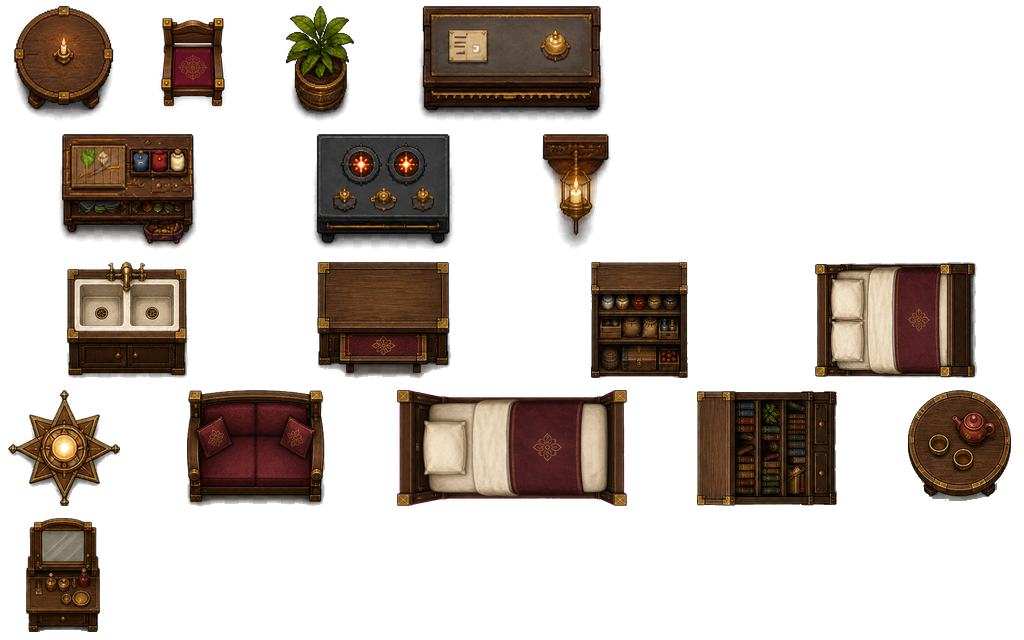
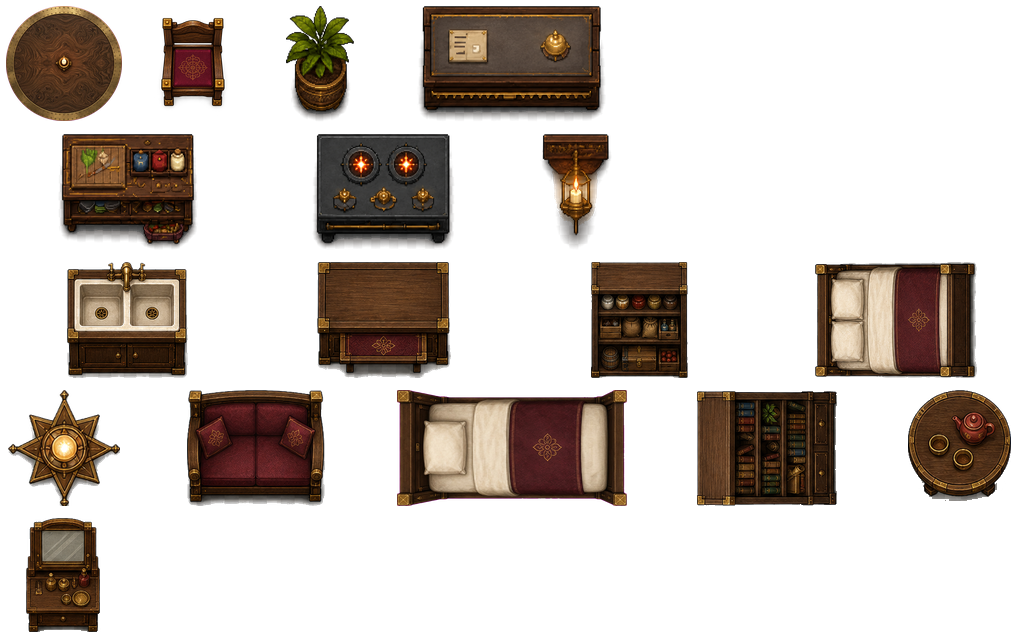
feat: add UI motion and richer HD dining table
Top-bar actions gain icons and 1X speed labels. Buttons, cards and
rails lift on hover; modals and toasts fade in. The HD dining table
now has a brass-riveted rim while staying orthographic.

Changed region(s): [[0.0, 0.0, 0.125, 0.1875]]

diff --git a/src/ui.js b/src/ui.js
@@ -181,7 +181,7 @@ img.portrait.list{width:42px;height:56px;flex:0 0 42px;border-width:1px;border-r
 .pstrip{display:flex;gap:4px;flex-wrap:wrap}
 .pstrip img{width:44px;height:56px;object-fit:cover;object-position:50% 0;border:2px solid #E3C9A4;border-radius:8px;cursor:pointer;image-rendering:auto}
 .pstrip img.on{border-color:#7FB069}
-.modal{position:fixed;inset:0;display:flex;align-items:center;justify-content:center;background:#3A2C20B8;pointer-events:auto;z-index:20}
+.modal{position:fixed;inset:0;display:flex;align-items:center;justify-content:center;background:#3A2C20B8;pointer-events:auto;z-index:20;animation:uiModalIn 180ms ease-out}
 .mbox{background:#F5E6C8 url('assets/ui-paper-target-v2.webp');background-size:420px;border:3px solid #B0895E;border-radius:16px;box-shadow:0 10px 28px rgba(60,40,25,.45), inset 0 0 0 1.5px rgba(255,250,235,.7), inset 0 0 22px rgba(150,110,60,.16);padding:14px;max-width:min(900px,94vw);max-height:92vh;overflow:auto}
 .grid{display:grid;grid-template-columns:repeat(auto-fill,minmax(58px,1fr));gap:3px}
 .grid button{padding:2px;font-size:12px;overflow:hidden;white-space:nowrap}
@@ -200,7 +200,7 @@ h3 .dim{font-weight:normal}
 #left::-webkit-scrollbar-track,#right::-webkit-scrollbar-track,.mbox::-webkit-scrollbar-track{background:rgba(201,161,118,.18);border-radius:4px}
 canvas.prev{image-rendering:pixelated;background:#2A2A44;border:2px solid #C9A176;border-radius:8px}
 .toasts{position:absolute;left:50%;transform:translateX(-50%);top:44px;text-align:center}
-.toast{background:#F7E9CDEE;border:2px solid #B0895E;border-radius:12px;padding:3px 12px;margin-bottom:4px;display:inline-block;color:#6B4429;box-shadow:0 2px 6px rgba(90,64,51,.25), inset 0 1px 0 rgba(255,255,255,.5)}
+.toast{background:#F7E9CDEE;border:2px solid #B0895E;border-radius:12px;padding:3px 12px;margin-bottom:4px;display:inline-block;color:#6B4429;box-shadow:0 2px 6px rgba(90,64,51,.25), inset 0 1px 0 rgba(255,255,255,.5);animation:uiToastIn 200ms ease-out}
 #chatter{position:absolute;left:50%;transform:translateX(-50%);bottom:96px;pointer-events:none;display:flex;flex-direction:column;align-items:center;gap:3px;max-width:72vw}
 #chatter div{background:#F7E9CDD9;border:2px solid #B0895E;border-radius:12px;padding:2px 12px;color:#6B4429;font-size:13px;box-shadow:0 2px 6px rgba(90,64,51,.18)}
 #ui input[type=range]{-webkit-appearance:none;appearance:none;height:26px;background:transparent;cursor:pointer}
@@ -252,15 +252,15 @@ canvas.prev{image-rendering:pixelated;background:#2A2A44;border:2px solid #C9A17
 #ui{--paper:#f2e7d2;--paper-clean:#fbf6eb;--paper-deep:#e4d3b6;--walnut:#24170f;--walnut-2:#3a2518;--ink:#39291f;--ink-muted:#786552;--brass:#9a763f;--brass-soft:#c2a36b;--oxblood:#7c241f;--positive:#5f8f42;--info:#3f8992;--rose:#c25d71;--warning:#c47a2c;--danger:#a64037;--line:#b9a17d;--portrait-face-y:14%;font-family:"Microsoft YaHei UI","PingFang SC","Noto Sans CJK SC",sans-serif;font-size:16px;line-height:1.5;color:var(--ink);font-variant-numeric:tabular-nums;-webkit-font-smoothing:antialiased;text-rendering:optimizeLegibility}
 #ui:after{content:"";position:absolute;inset:0;z-index:19;pointer-events:none;border:12px solid transparent;border-image:url('assets/ui-frame-ornament-v2.webp') 54 / 12px stretch}
 #ui h1,#ui h2,#ui h3,#ui .ui-title{font-family:inherit;line-height:1.3;letter-spacing:.02em}
-#ui button{box-sizing:border-box;font-size:15px;line-height:1.35;border-width:1px;border-color:var(--line);border-radius:4px;background-color:#ead8b9;background-image:linear-gradient(#fff9edc4,#dbc29bc4),url('assets/ui-paper-target-v2.webp');background-size:auto,220px;color:var(--ink);text-shadow:none;box-shadow:inset 0 0 0 1px #fff9df88,inset 0 -2px #8f66302b,0 1px 1px #2d1d1022;transition:background-color 160ms ease-out,border-color 160ms ease-out,transform 160ms ease-out,box-shadow 160ms ease-out}
-#ui button:hover{filter:none;border-color:var(--brass);background-color:#efdfc4}
+#ui button{box-sizing:border-box;font-size:15px;line-height:1.35;border-width:1px;border-color:var(--line);border-radius:4px;background-color:#ead8b9;background-image:linear-gradient(#fff9edc4,#dbc29bc4),url('assets/ui-paper-target-v2.webp');background-size:auto,220px;color:var(--ink);text-shadow:none;box-shadow:inset 0 0 0 1px #fff9df88,inset 0 -2px #8f66302b,0 1px 1px #2d1d1022;transition:background-color 160ms ease-out,border-color 160ms ease-out,transform 160ms ease-out,box-shadow 160ms ease-out,filter 160ms ease-out}
+#ui button:hover{filter:none;border-color:var(--brass);background-color:#efdfc4;transform:translateY(-1px);box-shadow:inset 0 0 0 1px #fff9dfaa,inset 0 -2px #8f66303a,0 4px 8px #2d1d1033}
 #ui button:focus-visible,#ui input:focus-visible,#ui select:focus-visible,#ui textarea:focus-visible,#ui summary:focus-visible{outline:2px solid var(--info);outline-offset:2px}
-#ui button:active{transform:translateY(1px);box-shadow:inset 0 1px 2px #3c281c33}
+#ui button:active{transform:translateY(1px) scale(.98);box-shadow:inset 0 1px 2px #3c281c33}
 #ui button.on{background:var(--oxblood);border-color:#571713;color:#fff9ec;text-shadow:none;box-shadow:inset 0 1px #ffffff22}
 #ui button.warn{border-color:var(--danger);color:var(--danger);background:#fff5ec}
 #ui button:disabled{opacity:.46;filter:grayscale(.35);cursor:not-allowed;transform:none}
-#ui .card{border:1px solid var(--line);border-left-width:1px;border-radius:5px;padding:8px;margin-bottom:8px;background-color:var(--paper-clean);background-image:linear-gradient(#ffffff5c,#8f6d3320),url('assets/ui-paper-target-v2.webp');background-size:auto,280px;box-shadow:0 1px 0 #fff inset,0 0 0 1px #9a763f18;cursor:default}
-#ui .card:hover{border-color:var(--brass-soft)}
+#ui .card{border:1px solid var(--line);border-left-width:1px;border-radius:5px;padding:8px;margin-bottom:8px;background-color:var(--paper-clean);background-image:linear-gradient(#ffffff5c,#8f6d3320),url('assets/ui-paper-target-v2.webp');background-size:auto,280px;box-shadow:0 1px 0 #fff inset,0 0 0 1px #9a763f18;cursor:default;transition:border-color 160ms ease-out,box-shadow 160ms ease-out,transform 160ms ease-out}
+#ui .card:hover{border-color:var(--brass);box-shadow:0 1px 0 #fff inset,0 4px 10px #3a210f2a,0 0 0 1px #9a763f33;transform:translateY(-1px)}
 #ui .good{color:var(--positive)}#ui .bad{color:var(--danger)}#ui .hi{color:#865c23}#ui .dim{color:var(--ink-muted)}
 .ui-icon{display:inline-block;width:1em;height:1em;vertical-align:-.12em;fill:none;stroke:currentColor;stroke-width:1.75;stroke-linecap:round;stroke-linejoin:round;pointer-events:none}
 .metric-row{display:grid;grid-template-columns:20px 76px minmax(60px,1fr) 24px;align-items:center;gap:10px;min-height:28px;color:var(--ink);font-variant-numeric:tabular-nums}
@@ -273,12 +273,12 @@ canvas.prev{image-rendering:pixelated;background:#2A2A44;border:2px solid #C9A17
 #ui .pane{border:7px solid transparent;border-image:url('assets/ui-frame-ornament-v2.webp') 54 / 7px stretch;border-radius:3px;background-color:var(--paper);background-image:linear-gradient(#ffffff28,#79572812),url('assets/ui-paper-target-v2.webp');background-size:auto,360px;box-shadow:0 3px 12px #170d0840,inset 0 0 0 1px #fff8df99,inset 0 0 18px #8f62221a}
 #top{left:8px;right:8px;top:8px;height:72px;min-height:72px;box-sizing:border-box;padding:0 8px;gap:0;border-radius:0;background-color:var(--paper);background-image:linear-gradient(#ffffff26,#74522615),url('assets/ui-paper-target-v2.webp');background-size:auto,360px;border-color:var(--brass);box-shadow:0 2px 8px #160d0744,inset 0 -2px #a27b3e33;overflow-x:auto;font-size:17px;scrollbar-width:none}#top::-webkit-scrollbar{display:none}
 #top .top-group{display:flex;align-items:center;align-self:stretch;gap:8px;padding:0 12px;border-right:1px solid #9a763f;box-shadow:inset -1px 0 #fff9e788;flex:0 0 auto}
-#top .top-identity{min-width:205px;box-sizing:border-box;justify-content:center;padding-left:12px}.top-identity .brand-title{border:0;background:transparent;box-shadow:none;padding:0 10px;font-family:"SimSun","Songti SC",serif;font-size:22px;font-weight:700;color:var(--oxblood);letter-spacing:.08em}.top-identity .brand-title:hover{background:#7c241f0b;border-color:transparent}.top-date{font-weight:600}.top-day-state{display:flex;align-items:center;gap:6px}.top-speed button{min-width:48px;height:48px;padding:4px 10px}.top-economy{min-width:405px;box-sizing:border-box;justify-content:center;font-variant-numeric:tabular-nums}.top-economy .ui-icon{width:18px;height:18px;color:#a97820}.top-status{display:flex;gap:8px;align-items:center}.top-status:empty{display:none}.top-actions{margin-left:auto;border-right:0!important}.top-actions>button{min-height:44px;padding:6px 14px}.top-actions>button[data-act="readiness"]{min-width:124px}.top-actions>button[data-act="savemenu"]{min-width:100px}.top-actions-secondary{display:inline-flex;gap:5px;align-items:center}.top-actions-secondary button{min-height:44px;padding:6px 14px}.top-overflow{display:none;position:relative}.top-overflow>button{min-width:36px;min-height:44px;padding:6px 10px}.top-overflow-menu{display:none;position:fixed;top:78px;right:12px;min-width:150px;max-width:90vw;padding:8px;border:2px solid #B0895E;border-radius:10px;background:#F5E6C8 url('assets/ui-paper-target-v2.webp');background-size:420px;box-shadow:0 6px 18px rgba(0,0,0,.25);z-index:100;flex-direction:column;gap:5px}.top-overflow.open .top-overflow-menu{display:flex}.top-overflow-menu button{width:100%;text-align:left;justify-content:flex-start}.primary-action{background:var(--oxblood)!important;border-color:#571713!important;color:#fff9ec!important;font-weight:700;min-width:112px;box-shadow:inset 0 1px #ffffff2b,0 1px 2px #2b100d44!important}.primary-action:hover{background:#912f28!important}
+#top .top-identity{min-width:205px;box-sizing:border-box;justify-content:center;padding-left:12px}.top-identity .brand-title{border:0;background:transparent;box-shadow:none;padding:0 10px;font-family:"SimSun","Songti SC",serif;font-size:22px;font-weight:700;color:var(--oxblood);letter-spacing:.08em}.top-identity .brand-title:hover,.top-identity .brand-title:active{background:#7c241f0b;border-color:transparent;transform:none;box-shadow:none}.top-date{font-weight:600}.top-day-state{display:flex;align-items:center;gap:6px}.top-speed button{min-width:48px;height:48px;padding:4px 10px}.top-economy{min-width:405px;box-sizing:border-box;justify-content:center;font-variant-numeric:tabular-nums}.top-economy .ui-icon{width:18px;height:18px;color:#a97820}.top-status{display:flex;gap:8px;align-items:center}.top-status:empty{display:none}.top-actions{margin-left:auto;border-right:0!important}.top-actions>button,.top-actions-secondary button,.top-overflow-menu button{min-height:44px;padding:6px 14px;display:inline-flex;align-items:center;justify-content:center;gap:6px}.top-actions>button .ui-icon,.top-actions-secondary button .ui-icon,.top-overflow-menu button .ui-icon{width:16px;height:16px;flex:0 0 auto}.top-actions>button[data-act="readiness"]{min-width:124px}.top-actions>button[data-act="savemenu"]{min-width:100px}.top-actions-secondary{display:inline-flex;gap:5px;align-items:center}.top-actions-secondary button{min-height:44px;padding:6px 14px}.top-overflow{display:none;position:relative}.top-overflow>button{min-width:36px;min-height:44px;padding:6px 10px}.top-overflow-menu{display:none;position:fixed;top:78px;right:12px;min-width:150px;max-width:90vw;padding:8px;border:2px solid #B0895E;border-radius:10px;background:#F5E6C8 url('assets/ui-paper-target-v2.webp');background-size:420px;box-shadow:0 6px 18px rgba(0,0,0,.25);z-index:100;flex-direction:column;gap:5px}.top-overflow.open .top-overflow-menu{display:flex;animation:uiMenuIn 160ms ease-out}.top-overflow-menu button{width:100%;text-align:left;justify-content:flex-start}.primary-action{background:var(--oxblood)!important;border-color:#571713!important;color:#fff9ec!important;font-weight:700;min-width:112px;box-shadow:inset 0 1px #ffffff2b,0 1px 2px #2b100d44!important}.primary-action:hover{background:#912f28!important}
 #left,#right{top:88px;bottom:92px;max-height:none;box-sizing:border-box;padding:22px;overflow:auto}#left{width:300px}#right{width:clamp(400px,28vw,460px)}
 #bottom{height:76px;min-height:76px;left:8px;right:8px;bottom:8px;box-sizing:border-box;padding:0 16px;display:flex;align-items:center;overflow:hidden;transition:height .14s,max-height .14s}#bottom.bottom-expanded{height:auto;min-height:76px;max-height:32vh;align-items:flex-start;padding:12px 16px;overflow:auto}#bottom>*{width:100%}.bottom-shell{display:grid;grid-template-columns:32px minmax(0,1fr) 48px;align-items:center;gap:12px;min-height:74px}.bottom-info{display:grid;place-items:center;width:28px;height:28px;border-radius:50%;background:#6a4a2e;color:#fff8e7;font-family:serif;font-weight:700}.bottom-content{min-width:0}.bottom-toggle{width:48px;height:42px;padding:0!important}.bottom-panel-mark{display:inline-block;width:20px;height:15px;border:1.5px solid currentColor;border-radius:2px;box-shadow:inset 0 4px currentColor;opacity:.8}#bottom.bottom-collapsed .bottom-content{display:none}#bottom.bottom-collapsed .bottom-shell{grid-template-columns:32px 1fr 48px}
 #left>.tabs,#right>.tabs{position:sticky;top:-22px;z-index:4;margin:-22px -22px 14px;padding:12px 10px 10px;background:color-mix(in srgb,var(--paper) 96%,transparent);border-bottom:1px solid var(--line)}
-.tabs button{min-height:58px;display:flex;align-items:center;justify-content:center;gap:5px;border:3px solid transparent;border-image:url('assets/ui-frame-ornament-v2.webp') 72 / 3px stretch;box-shadow:inset 0 0 0 1px #fff7df99,inset 0 -2px #6f481f25}.tabs button.on{box-shadow:inset 0 0 0 1px #d8ad6466,inset 0 -3px #35100e55}.tabs .ui-icon{width:18px;height:18px}.tabs button.fold{flex:0 0 42px;width:42px;height:42px;padding:0}.panel-collapse-mark{display:inline-block;position:relative;width:19px;height:16px;border:1.5px solid currentColor;border-radius:2px}.panel-collapse-mark:before{content:"";position:absolute;top:1px;bottom:1px;width:4px;background:currentColor;opacity:.55}.panel-collapse-mark.left:before{left:1px}.panel-collapse-mark.right:before{right:1px}
-.rail{top:88px;bottom:92px;gap:12px;padding:9px 10px;border:1px solid #765735;background-color:var(--walnut);background-image:linear-gradient(90deg,#00000038,#ffffff0b 45%,#0000003b),url('assets/ui-walnut-target-v2.webp');background-size:auto,260px;box-shadow:0 2px 8px #0c070577,inset 0 0 0 1px #c49a5526}#ui .rail button{width:72px;height:72px;padding:18px;border:1px solid #a27c43;border-radius:3px;background-color:var(--walnut-2);background-image:linear-gradient(#ffffff12,#00000025),url('assets/ui-walnut-target-v2.webp');background-size:auto,220px;color:var(--brass-soft);box-shadow:0 2px 6px #0c070555,inset 0 0 0 1px #e0b96a20}#ui .rail button:hover{border-color:#d0aa65;background-color:#49301f;background-image:linear-gradient(#ffffff1d,#00000015),url('assets/ui-walnut-target-v2.webp')}#ui .rail button .ui-icon{width:30px;height:30px}.rail .notice-dot{position:absolute;right:-4px;top:-4px}
+.tabs button{min-height:58px;display:flex;align-items:center;justify-content:center;gap:5px;border:3px solid transparent;border-image:url('assets/ui-frame-ornament-v2.webp') 72 / 3px stretch;box-shadow:inset 0 0 0 1px #fff7df99,inset 0 -2px #6f481f25;transition:transform 160ms ease-out,box-shadow 160ms ease-out,background-color 160ms ease-out}.tabs button:hover{transform:translateY(-1px);box-shadow:inset 0 0 0 1px #d8ad6466,inset 0 -2px #6f481f35,0 3px 8px #24160d22}.tabs button.on{box-shadow:inset 0 0 0 1px #d8ad6466,inset 0 -3px #35100e55}.tabs .ui-icon{width:18px;height:18px}.tabs button.fold{flex:0 0 42px;width:42px;height:42px;padding:0}.panel-collapse-mark{display:inline-block;position:relative;width:19px;height:16px;border:1.5px solid currentColor;border-radius:2px}.panel-collapse-mark:before{content:"";position:absolute;top:1px;bottom:1px;width:4px;background:currentColor;opacity:.55}.panel-collapse-mark.left:before{left:1px}.panel-collapse-mark.right:before{right:1px}
+.rail{top:88px;bottom:92px;gap:12px;padding:9px 10px;border:1px solid #765735;background-color:var(--walnut);background-image:linear-gradient(90deg,#00000038,#ffffff0b 45%,#0000003b),url('assets/ui-walnut-target-v2.webp');background-size:auto,260px;box-shadow:0 2px 8px #0c070577,inset 0 0 0 1px #c49a5526}#ui .rail button{width:72px;height:72px;padding:18px;border:1px solid #a27c43;border-radius:3px;background-color:var(--walnut-2);background-image:linear-gradient(#ffffff12,#00000025),url('assets/ui-walnut-target-v2.webp');background-size:auto,220px;color:var(--brass-soft);box-shadow:0 2px 6px #0c070555,inset 0 0 0 1px #e0b96a20}#ui .rail button:hover{border-color:#d0aa65;background-color:#49301f;background-image:linear-gradient(#ffffff1d,#00000015),url('assets/ui-walnut-target-v2.webp');transform:translateY(-2px) scale(1.04);box-shadow:0 8px 14px #0c070566,inset 0 0 0 1px #e0b96a55,0 0 12px #d0aa6540}#ui .rail button:active{transform:translateY(1px) scale(.98)}#ui .rail button .ui-icon{width:30px;height:30px}.rail .notice-dot{position:absolute;right:-4px;top:-4px}
 .staff-summary{margin-bottom:20px!important;padding:3px 0;font-size:17px}.staff-recruit-entry{width:100%;min-height:48px;font-family:inherit;font-size:18px}.recruitment-head{position:sticky;top:67px;z-index:3;display:flex;align-items:center;gap:8px;margin:0 -2px 10px;padding:8px 2px;background:color-mix(in srgb,var(--paper) 96%,transparent);border-bottom:1px solid var(--line)}.recruitment-head h3{flex:1;margin:0;text-align:center}
 .staff-card{box-sizing:border-box;min-width:0;overflow:hidden;min-height:260px;padding:10px!important;margin-bottom:10px!important}.staff-card-grid{display:grid;grid-template-columns:108px minmax(0,1fr);gap:16px;align-items:start;min-width:0}.staff-card-main{min-width:0;overflow:hidden}.staff-card-head{display:flex;align-items:flex-start;gap:8px;min-height:42px}.staff-identity{min-width:0}.staff-identity b{font-family:inherit;font-size:20px}.staff-role-tag{display:inline-block;margin-left:7px;padding:2px 7px;border-radius:3px;background:var(--paper-deep);color:var(--ink-muted);font-size:13px;font-weight:400;white-space:nowrap}.staff-metrics{margin:28px 0 8px;padding:9px 0 0;border-top:1px solid #ded1ba;min-width:0;overflow:hidden}.staff-metrics .metric-row{grid-template-columns:18px 64px minmax(32px,1fr) 22px;gap:6px}.staff-current{display:block;min-width:0;overflow:hidden;text-overflow:ellipsis;white-space:nowrap}.staff-detail-action{position:relative;flex:0 0 36px;width:36px;height:36px;padding:0!important}.staff-detail-mark{position:absolute;left:12px;top:10px;width:9px;height:9px;border-right:2px solid currentColor;border-bottom:2px solid currentColor;transform:rotate(-45deg)}
 .sr-only{position:absolute!important;width:1px!important;height:1px!important;padding:0!important;margin:-1px!important;overflow:hidden!important;clip:rect(0,0,0,0)!important;white-space:nowrap!important;border:0!important}.notice-dot{display:inline-block;position:relative;flex:0 0 auto;width:12px;height:12px;margin-left:4px;border:1px solid #7c1e19;border-radius:50%;background:radial-gradient(circle at 35% 30%,#e65442 0 18%,#b72c25 22% 64%,#7d1c18 68%);box-shadow:0 1px 1px #2c0d0a66,inset 0 0 0 1px #f28a7355;vertical-align:middle}.tabs button>.notice-dot{position:absolute;right:2px;top:2px;margin:0}.rail button>.notice-dot{position:absolute;right:-4px;top:-4px;margin:0}.modal-notice{position:absolute;z-index:3;right:46px;top:12px}
@@ -291,11 +291,16 @@ canvas.prev{image-rendering:pixelated;background:#2A2A44;border:2px solid #C9A17
 #ui.material-hd:after{border-image-source:url('assets/ui-frame-ornament-v3.webp');filter:drop-shadow(0 2px 2px #120904aa)}
 #ui.material-hd .pane{border-width:9px;border-image:url('assets/ui-frame-ornament-v3.webp') 54 / 9px stretch;background-image:linear-gradient(135deg,#fffdf877 0%,#ead5ae44 48%,#aa794a1f 100%),url('assets/ui-paper-target-v2.webp');box-shadow:0 5px 18px #10090566,inset 0 1px #fffdf5cc,inset 0 -3px 12px #72451622}
 #ui.material-hd :is(.top-actions>button,.top-actions-secondary button,.top-overflow>button,.top-overflow-menu button,.primary-action,.staff-recruit-entry,.compare-hire,.compare-tray button){border:6px solid transparent;border-image:url('assets/ui-control-ornament-v3.webp') 40 72 fill / 6px 12px stretch;background-color:#ead1a8;color:#52331e;box-shadow:0 3px 5px #2b160b40,inset 0 2px #fffbe7cc,inset 0 -3px #6a3b162f}
-#ui.material-hd :is(.top-actions>button,.top-actions-secondary button,.top-overflow>button,.top-overflow-menu button,.primary-action,.staff-recruit-entry,.compare-hire,.compare-tray button):hover{border-color:transparent;background-color:#f0dfc0;box-shadow:0 4px 7px #2b160b4d,inset 0 2px #fffef0e8,inset 0 -3px #75421838}
+#ui.material-hd :is(.top-actions>button,.top-actions-secondary button,.top-overflow>button,.top-overflow-menu button,.primary-action,.staff-recruit-entry,.compare-hire,.compare-tray button):hover{border-color:transparent;background-color:#f0dfc0;transform:translateY(-1px);box-shadow:0 6px 12px #2b160b55,inset 0 2px #fffef0e8,inset 0 -3px #75421838}
 #ui.material-hd button.on,#ui.material-hd .primary-action{background-image:linear-gradient(180deg,#a54339 0%,#7f2823 48%,#531612 100%)!important;border-color:#d2a85f!important;color:#fff5dc!important;text-shadow:0 1px #2a0908!important;box-shadow:0 3px 7px #2d090955,inset 0 2px #f6b8a044,inset 0 -3px #2e080966,inset 0 0 0 1px #e4bd7644!important}
 #ui.material-hd .card{border-color:#aa8350;background-image:linear-gradient(145deg,#fffdf4a6,#efd9b466 52%,#b8844921),url('assets/ui-paper-target-v2.webp');box-shadow:0 3px 8px #3a210f24,inset 0 1px #fffdf1e8,inset 0 0 0 1px #d5aa6a4d}
 #ui.material-hd #top .top-group{border-right-color:#9b6c30;box-shadow:inset -1px 0 #fff9e7c9,inset -3px 0 #6a421522}
 #ui.material-hd #left>.tabs,#ui.material-hd #right>.tabs{border-bottom:2px solid #b08143;box-shadow:0 3px 7px #2b170b22,inset 0 -1px #fff7da}
+@keyframes uiModalIn{from{opacity:0}to{opacity:1}}
+@keyframes uiMboxIn{from{opacity:0;transform:translateY(8px) scale(.98)}to{opacity:1;transform:none}}
+@keyframes uiToastIn{from{opacity:0;transform:translateY(-6px)}to{opacity:1;transform:none}}
+@keyframes uiMenuIn{from{opacity:0;transform:translateY(-4px)}to{opacity:1;transform:none}}
+.mbox{animation:uiMboxIn 200ms cubic-bezier(.2,.7,.2,1)}
 @media(prefers-reduced-motion:reduce){#ui *,#ui *:before,#ui *:after{transition-duration:0.01ms!important;animation-duration:0.01ms!important;animation-iteration-count:1!important}}
 .creator-footer{position:sticky;bottom:0;z-index:6;margin:10px -14px -14px;padding:10px 14px;background:linear-gradient(#fff8eae8,#f5e6c8);border-top:1px solid var(--line)}
 .creator-footer .creator-done{width:100%;margin-top:0}
@@ -1149,10 +1154,10 @@ export class UI {
     this.setPanelHTML(this.top, `
       <div class="top-group top-identity"><button data-act="worldcard" data-v="${htmlText(world.id)}" class="brand-title" title="万界旅店账簿 · 当前驻留：${htmlText(world.name)}，点击查看世界卡">万界旅店账簿</button></div>
       <div class="top-group top-date"><span>第 ${e.day} 天</span><span class="dim">${SEASON_NAMES[s.seasonIndex()]}</span><span class="top-day-state">${s.dayActive ? `<span class="hi">营业中·${this.phase()}</span><span class="bar" style="display:inline-block;width:72px"><i style="width:${timePct}%;background:var(--warning)"></i></span>` : '<span class="dim">收盘规划</span>'}</span></div>
-      <div class="top-group top-speed"><button data-act="pause" class="${g.paused ? 'on' : ''}" aria-label="${g.paused ? '继续' : '暂停'}">${g.paused ? '▶' : 'Ⅱ'}</button>${[1, 2, 4].map((n) => `<button data-act="speed" data-v="${n}" class="${g.speed === n && !g.paused ? 'on' : ''}">${n}×</button>`).join('')}</div>
+      <div class="top-group top-speed"><button data-act="pause" class="${g.paused ? 'on' : ''}" aria-label="${g.paused ? '继续' : '暂停'}">${g.paused ? '▶' : 'Ⅱ'}</button>${[1, 2, 4].map((n) => `<button data-act="speed" data-v="${n}" class="${g.speed === n && !g.paused ? 'on' : ''}">${n}X</button>`).join('')}</div>
       <div class="top-group top-economy"><span class="hi">${uiIcon('econ', '界币')} ${Math.round(e.coins)}</span><span>声望 <span class="star">${'★'.repeat(stars)}</span><span class="dim">${'☆'.repeat(5 - stars)}</span> ${Math.round(e.rep)}/${nextTh}</span></div>
       <div class="top-group top-status">${stars < 5 && e.rep >= nextTh ? `<span class="hi">待完成 ★${stars + 1} 经营认证</span>` : ''}${s.endingSeen ? '<span class="good">五星认证</span>' : ''}${e.strikes ? `<span class="bad">封印警告 ${e.strikes}/3</span>` : ''}${lowStock.length ? `<span class="bad">缺料：${lowStock.map((k) => ING_LABEL[k]).join('/')}</span>` : ''}${this.dynamicAIStatus?.state === 'loading' ? `<span class="hi">✦ ${htmlText(this.dynamicAIStatus.text)}</span><button data-act="aicanceldynamic">取消</button>` : this.dynamicAIStatus?.state === 'error' ? `<span class="bad">${htmlText(this.dynamicAIStatus.text)}</span><button data-act="airetrydynamic">重试</button>` : ''}</div>
-      <div class="top-group top-actions">${s.dayActive ? '' : '<button data-act="readiness">营业准备</button><button data-act="open" class="primary-action">开门营业</button>'}${tutorial.started && !tutorial.completed && !tutorial.skipped && !this.tutorialActive ? `<button data-act="tutorialresume">继续引导 ${tutorial.index + 1}/${TUTORIAL_STEPS.length}</button>` : ''}<button data-act="mobilemanual" class="mobile-manual ${s.manualOwner ? 'on' : ''}">${s.manualOwner ? '自动' : '直控'}</button><button data-act="savemenu">档位 ${this.g.currentSlot}</button><span class="top-actions-secondary"><button data-act="help">帮助</button><button data-act="prompts">提示词</button><button data-act="home">回店</button><button data-act="fullview" title="容纳全部房间">全店视图</button><button data-act="settings">设置</button></span><div class="top-overflow ${this.topOverflowOpen ? 'open' : ''}"><button data-act="overflow-toggle" aria-label="更多工具" aria-haspopup="true" aria-expanded="${this.topOverflowOpen}">⋮</button><div class="top-overflow-menu" role="menu"><button data-act="help" role="menuitem">帮助</button><button data-act="prompts" role="menuitem">提示词</button><button data-act="home" role="menuitem">回店</button><button data-act="fullview" role="menuitem" title="容纳全部房间">全店视图</button><button data-act="settings" role="menuitem">设置</button></div></div></div>`);
+      <div class="top-group top-actions">${s.dayActive ? '' : `<button data-act="readiness">${uiIcon('ready', '营业准备')} 营业准备</button><button data-act="open" class="primary-action">开门营业</button>`}${tutorial.started && !tutorial.completed && !tutorial.skipped && !this.tutorialActive ? `<button data-act="tutorialresume">继续引导 ${tutorial.index + 1}/${TUTORIAL_STEPS.length}</button>` : ''}<button data-act="mobilemanual" class="mobile-manual ${s.manualOwner ? 'on' : ''}">${s.manualOwner ? '自动' : '直控'}</button><button data-act="savemenu">${uiIcon('save', '档位')} 档位 ${this.g.currentSlot}</button><span class="top-actions-secondary"><button data-act="help">${uiIcon('help', '帮助')} 帮助</button><button data-act="prompts">${uiIcon('prompt', '提示词')} 提示词</button><button data-act="home">回店</button><button data-act="fullview" title="容纳全部房间">全店视图</button><button data-act="settings">设置</button></span><div class="top-overflow ${this.topOverflowOpen ? 'open' : ''}"><button data-act="overflow-toggle" aria-label="更多工具" aria-haspopup="true" aria-expanded="${this.topOverflowOpen}">⋮</button><div class="top-overflow-menu" role="menu"><button data-act="help" role="menuitem">${uiIcon('help', '帮助')} 帮助</button><button data-act="prompts" role="menuitem">${uiIcon('prompt', '提示词')} 提示词</button><button data-act="home" role="menuitem">回店</button><button data-act="fullview" role="menuitem" title="容纳全部房间">全店视图</button><button data-act="settings" role="menuitem">设置</button></div></div></div>`);
   }
 
           phase()         {
